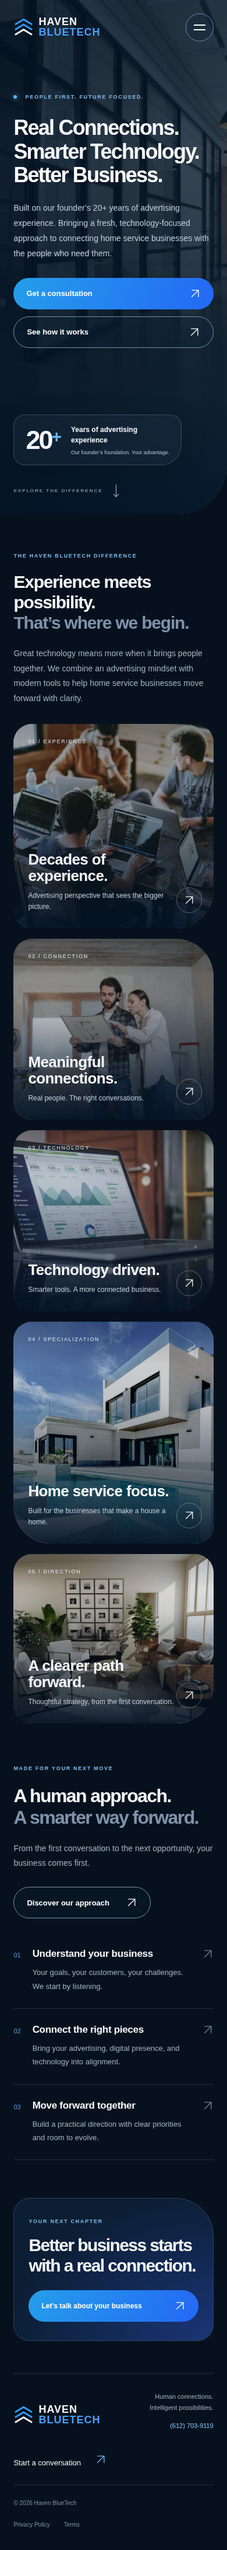
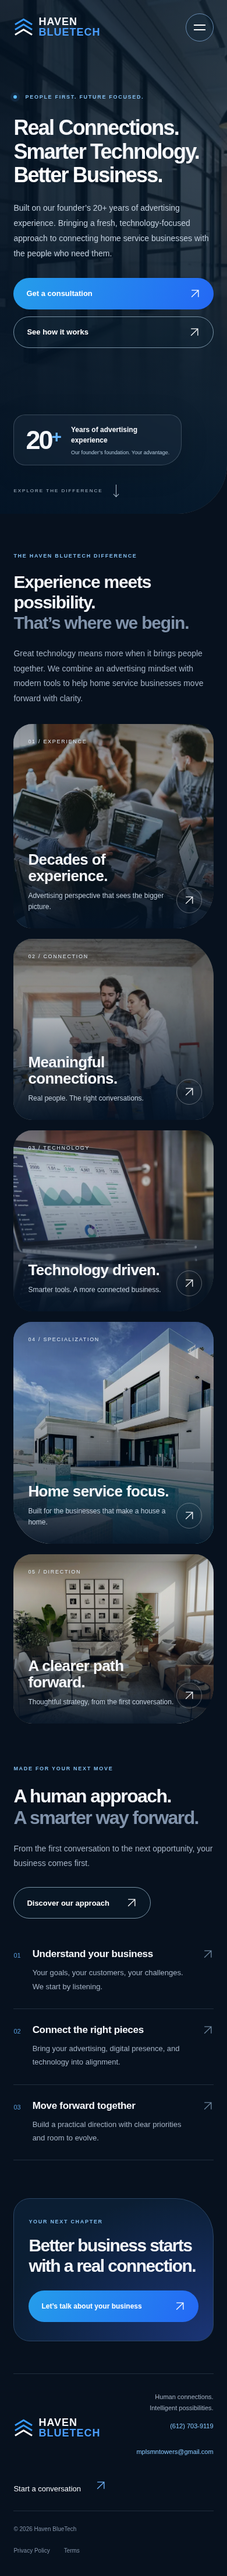
feat: add business email and prefilled inquiry drafts

Changed region(s): [[0.0615, 0.2179, 0.9538, 0.9963], [0.0615, 0.0311, 0.9231, 0.1868], [0.3077, 0.1557, 0.6154, 0.1868]]

diff --git a/src/render.ts b/src/render.ts
@@ -4,7 +4,7 @@ const nav = [['About','/about'],['Services','/services'],['How it works','/how-i
 const button = (label:string, href:string, secondary=false) => `<a class="button ${secondary?'secondary':''}" href="${href}">${label}${arrow}</a>`;
 const logo = `<a class="brand" href="/" aria-label="Haven BlueTech home"><svg viewBox="0 0 48 48" aria-hidden="true"><path d="m4 17 20-12 20 12M4 29l20-12 20 12"/><path class="white" d="m4 41 20-12 20 12"/></svg><span>HAVEN<span class="brand-blue">BLUETECH</span></span></a>`;
 const header = `<a class="skip" href="#main">Skip to content</a><header class="header"><div class="nav-wrap">${logo}<nav class="desktop-nav" aria-label="Main navigation">${nav.map(([label,href])=>`<a ${route===href?'aria-current="page"':''} href="${href}">${label}</a>`).join('')}</nav><a class="nav-cta" href="/contact">Let’s connect ${arrow}</a><button class="menu-toggle" aria-label="Open navigation" aria-expanded="false" aria-controls="mobile-nav"><span></span><span></span></button></div><nav id="mobile-nav" class="mobile-nav" aria-label="Mobile navigation" hidden>${[...nav,['Let’s connect','/contact']].map(([label,href])=>`<a href="${href}">${label}${arrow}</a>`).join('')}</nav></header>`;
-const footer = `<footer class="footer"><div class="footer-top">${logo}<p>Human connections.<br>Intelligent possibilities.<br><a class="footer-phone" href="tel:+16127039119">(612) 703-9119</a></p><a href="/contact">Start a conversation ${arrow}</a></div><div class="footer-bottom"><span>© ${new Date().getFullYear()} Haven BlueTech</span><div><a href="/privacy">Privacy Policy</a><a href="/terms">Terms</a></div><span>Built around people. Powered by technology.</span></div></footer>`;
+const footer = `<footer class="footer"><div class="footer-top">${logo}<p>Human connections.<br>Intelligent possibilities.<br><a class="footer-phone" href="tel:+16127039119">(612) 703-9119</a><br><a class="footer-email" href="mailto:mplsmntowers@gmail.com">mplsmntowers@gmail.com</a></p><a href="/contact">Start a conversation ${arrow}</a></div><div class="footer-bottom"><span>© ${new Date().getFullYear()} Haven BlueTech</span><div><a href="/privacy">Privacy Policy</a><a href="/terms">Terms</a></div><span>Built around people. Powered by technology.</span></div></footer>`;
 const features = [
  {title:'Decades of experience.',desc:'Advertising perspective that sees the bigger picture.',image:'experience',tag:'01 / EXPERIENCE',cls:'experience',alt:'Marketing team collaborating around a table in a bright studio'},
  {title:'Meaningful connections.',desc:'Real people. The right conversations.',image:'connections',tag:'02 / CONNECTION',cls:'connections',alt:'Home renovation consultation with two people reviewing a floor plan'},
@@ -21,8 +21,8 @@ const pageHero = (label:string,title:string,desc:string) => `<section class="pag
 const about = `<main id="main">${pageHero('ABOUT HAVEN BLUETECH','Built on experience.<br><em>Looking ahead.</em>','We believe better business begins with understanding people. Technology helps us take that understanding further.')}<section class="split section"> <div class="editorial-image reveal">${image('experience','Advertising professionals sharing ideas in a studio')}</div><div class="prose reveal"><span class="eyebrow">EXPERIENCE WITH PERSPECTIVE</span><h2>A familiar challenge.<br>A fresh approach.</h2><p>Haven BlueTech brings together our founder’s 20+ years of advertising experience and a technology-focused approach to business growth.</p><p>That experience belongs to our founder. It’s the foundation of our thinking—not a claim that Haven BlueTech has been operating for two decades.</p><p>Our focus is home services: the businesses that help people care for, improve, and feel at home in their spaces. We believe their marketing should be as thoughtful as the work they do.</p></div></section><section class="values section"><span class="eyebrow">WHAT GUIDES US</span><h2>People at the center.<br>Purpose in every decision.</h2><div class="value-grid">${[['01','Listen first','Understand the business before recommending a direction.'],['02','Make it useful','Choose technology for the real problems it can help solve.'],['03','Keep it clear','Bring straightforward thinking to a complicated digital landscape.']].map(([n,t,d])=>`<article><span>${n}</span><h3>${t}</h3><p>${d}</p></article>`).join('')}</div></section>${cta}</main>`;
 const services = `<main id="main">${pageHero('OUR SERVICES','Your business.<br><em>More connected.</em>','Advertising thinking and modern digital tools, shaped around the needs of home service businesses.')}<section class="service-list section">${[['01','Advertising & marketing strategy','A clear direction before the next investment.','Clarify your audience, positioning, and marketing priorities. Turn experience into a practical plan for reaching the people your business is built to serve.','experience'],['02','Digital presence & experiences','Make every first impression count.','Bring clarity to how your business shows up online, with thoughtful website experiences and messaging that help potential customers understand their next step.','technology'],['03','Connection-focused marketing','Make the right conversations easier.','Consider the whole journey from discovering your business to making an inquiry. Create a more coherent path between your marketing and your customer conversations.','connections'],['04','Practical technology direction','Better tools, with a clear purpose.','Explore digital tools and ways of working that fit your business. Focus on useful connections, simpler processes, and an approach your team can understand.','strategy']].map(([n,t,s,d,img])=>`<article class="service-row reveal"><div class="service-photo">${image(img,t)}</div><div><span class="eyebrow">${n} / HOW WE HELP</span><h2>${t}</h2><h3>${s}</h3><p>${d}</p><a class="text-link" href="/contact">Talk about your goals ${arrow}</a></div></article>`).join('')}</section><div class="service-note section"><p>Every engagement starts with a conversation. Scope, deliverables, timing, and fees are agreed separately before work begins.</p></div>${cta}</main>`;
 const how = `<main id="main">${pageHero('HOW IT WORKS','Start with a conversation.<br><em>Build with intention.</em>','No one-size-fits-all formula. Just a thoughtful process that starts with where you are and where you want to go.')}<section class="process section">${[['01','Listen & understand','We talk about your business, your customers, and what you want to improve. Bring your questions, current challenges, and ambitions.','A shared understanding of your priorities.'],['02','Find the opportunity','We look at how your advertising, online presence, and tools fit together, then identify where a clearer connection could make a difference.','A focused direction grounded in your business.'],['03','Define the plan','Together, we agree on the work, the responsibilities, and the next steps. You’ll know the scope and fees before committing to an engagement.','A clear proposal you can review.'],['04','Build & evolve','We move through the agreed work with open communication. As your needs change, we revisit what makes sense for the next stage.','Practical progress and a considered next step.']].map(([n,t,d,o])=>`<article class="process-row reveal"><span>${n}</span><div><h2>${t}</h2><p>${d}</p><small>${o}</small></div></article>`).join('')}</section>${cta}</main>`;
-const contact = `<main id="main">${pageHero('LET’S CONNECT','Good things start<br><em>with a conversation.</em>','Tell us a little about your business and what’s next. Let’s find where experience and technology can help.')}<section class="contact-layout section"><div class="contact-aside"><div class="editorial-image">${image('connections','Two people discussing a home renovation floor plan')}</div><h2>Your next move starts here.</h2><p>Home service business? A new direction? A challenge worth solving? Start with the details that matter to you.</p><div class="business-phone"><span class="eyebrow">CALL HAVEN BLUETECH</span><a href="tel:+16127039119">(612) 703-9119</a></div><div class="contact-note"><span class="eyebrow">CONTACT PREVIEW</span><p>Call us to start a conversation. Online submissions are not enabled yet; you can prepare and download your inquiry below. Nothing is sent or stored by this website.</p></div></div><form id="contact-form"><noscript><p class="contact-note">Enable JavaScript to prepare a local inquiry download. Online submissions are not enabled.</p></noscript><fieldset disabled><label for="name">Your name <span>(required)</span></label><input id="name" name="name" autocomplete="name" required maxlength="120"/><label for="email">Email address <span>(required)</span></label><input id="email" name="email" type="email" autocomplete="email" required maxlength="254"/><label for="company">Business name</label><input id="company" name="company" autocomplete="organization" maxlength="180"/><label for="interest">What’s on your mind?</label><select id="interest" name="interest"><option>Advertising & marketing strategy</option><option>Digital presence & experiences</option><option>Connection-focused marketing</option><option>Practical technology direction</option><option>Let’s explore the possibilities</option></select><label for="message">Tell us about your goals <span>(required)</span></label><textarea id="message" name="message" required minlength="10" maxlength="5000" rows="5"></textarea><p class="form-privacy">Your details stay in this browser until you download your inquiry. Read our <a href="/privacy">Privacy Policy</a>.</p><button class="button" type="submit">Prepare my inquiry ${arrow}</button><p id="form-status" role="status" tabindex="-1"></p></fieldset></form></section></main>`;
-const privacy = `<main id="main" class="legal">${pageHero('LEGAL','Privacy Policy','Effective November 10, 2026. This policy describes the current Haven BlueTech frontend website.')}<article class="legal-body section"><h2>Information on this website</h2><p>This website does not provide accounts, payments, advertising trackers, or a server-side contact form. Contact fields are processed locally in your browser to create a downloadable inquiry. The website does not transmit those form fields to Haven BlueTech.</p><h2>Hosting and technical information</h2><p>When this website is hosted, its hosting provider may process technical request information, such as IP addresses, browser details, requested pages, and timestamps, to deliver and secure the service. Applicable retention depends on the hosting configuration and provider policies.</p><h2>Cookies and local storage</h2><p>This frontend does not intentionally set cookies or use local storage. It does not include analytics or marketing pixels. Photographs are served from this website’s own assets.</p><h2>Your inquiry</h2><p>If you choose to download an inquiry, the resulting file contains the details you entered. Keep or delete that file as you prefer. Downloading it does not send an inquiry. If you later share it through email or another service, that service’s privacy practices apply.</p><h2>External links</h2><p>Links to external websites are subject to those websites’ policies. Haven BlueTech does not control their practices.</p><h2>Changes and questions</h2><p>This policy should be updated before any new data collection, analytics, or submission service is enabled. For privacy questions, use the contact method published on our <a href="/contact">Contact page</a> when available.</p></article></main>`;
+const contact = `<main id="main">${pageHero('LET’S CONNECT','Good things start<br><em>with a conversation.</em>','Tell us a little about your business and what’s next. Let’s find where experience and technology can help.')}<section class="contact-layout section"><div class="contact-aside"><div class="editorial-image">${image('connections','Two people discussing a home renovation floor plan')}</div><h2>Your next move starts here.</h2><p>Home service business? A new direction? A challenge worth solving? Start with the details that matter to you.</p><div class="business-phone"><span class="eyebrow">CALL HAVEN BLUETECH</span><a href="tel:+16127039119">(612) 703-9119</a></div><div class="business-email"><span class="eyebrow">EMAIL HAVEN BLUETECH</span><a href="mailto:mplsmntowers@gmail.com">mplsmntowers@gmail.com</a></div><div class="contact-note"><span class="eyebrow">LET’S START A CONVERSATION</span><p>Call or email us directly, or prepare your inquiry below. You can download a copy and open an email draft in your email app to review and send.</p></div></div><form id="contact-form"><noscript><p class="contact-note">Enable JavaScript to prepare a local inquiry download. Online submissions are not enabled.</p></noscript><fieldset disabled><label for="name">Your name <span>(required)</span></label><input id="name" name="name" autocomplete="name" required maxlength="120"/><label for="email">Email address <span>(required)</span></label><input id="email" name="email" type="email" autocomplete="email" required maxlength="254"/><label for="company">Business name</label><input id="company" name="company" autocomplete="organization" maxlength="180"/><label for="interest">What’s on your mind?</label><select id="interest" name="interest"><option>Advertising & marketing strategy</option><option>Digital presence & experiences</option><option>Connection-focused marketing</option><option>Practical technology direction</option><option>Let’s explore the possibilities</option></select><label for="message">Tell us about your goals <span>(required)</span></label><textarea id="message" name="message" required minlength="10" maxlength="5000" rows="5"></textarea><p class="form-privacy">Your details are used locally to prepare a download and an email draft. You review and send the email in your own email app. Read our <a href="/privacy">Privacy Policy</a>.</p><button class="button" type="submit">Prepare my inquiry ${arrow}</button><a id="email-draft" class="text-link" href="mailto:mplsmntowers@gmail.com">Email us directly</a><p id="form-status" role="status" tabindex="-1"></p></fieldset></form></section></main>`;
+const privacy = `<main id="main" class="legal">${pageHero('LEGAL','Privacy Policy','Effective November 10, 2026. This policy describes the current Haven BlueTech frontend website.')}<article class="legal-body section"><h2>Information on this website</h2><p>This website does not provide accounts, payments, advertising trackers, or a server-side contact form. Contact fields are processed locally in your browser to create a downloadable inquiry and a prefilled email link. The website does not send emails automatically. You choose whether to open a draft in your email app and send it to Haven BlueTech.</p><h2>Hosting and technical information</h2><p>When this website is hosted, its hosting provider may process technical request information, such as IP addresses, browser details, requested pages, and timestamps, to deliver and secure the service. Applicable retention depends on the hosting configuration and provider policies.</p><h2>Cookies and local storage</h2><p>This frontend does not intentionally set cookies or use local storage. It does not include analytics or marketing pixels. Photographs are served from this website’s own assets.</p><h2>Your inquiry</h2><p>If you choose to download an inquiry, the resulting file contains the details you entered. Keep or delete that file as you prefer. Downloading it does not send an inquiry. Opening a prefilled email link passes your inquiry to your chosen email app. If you send an email to mplsmntowers@gmail.com, Haven BlueTech receives the details you include to respond to your inquiry. Your email provider’s privacy practices also apply.</p><h2>External links</h2><p>Links to external websites are subject to those websites’ policies. Haven BlueTech does not control their practices.</p><h2>Changes and questions</h2><p>This policy should be updated before any new data collection, analytics, or submission service is enabled. For privacy questions, email <a href="mailto:mplsmntowers@gmail.com">mplsmntowers@gmail.com</a> or call <a href="tel:+16127039119">(612) 703-9119</a>.</p></article></main>`;
 const terms = `<main id="main" class="legal">${pageHero('LEGAL','Terms of Use','Effective November 10, 2026. Please read these terms before using this website.')}<article class="legal-body section"><h2>Using this website</h2><p>This website provides general information about Haven BlueTech and its approach to advertising and technology. You may use it for lawful purposes. Do not attempt to damage the website, interfere with access, or misuse its content.</p><h2>Information and results</h2><p>Website content is informational and does not constitute a binding offer or professional advice. Descriptions of services are illustrative. Business outcomes depend on many factors, and no specific level of leads, sales, revenue, or performance is guaranteed.</p><h2>Services and agreements</h2><p>Any engagement requires a separate written agreement defining scope, fees, timing, responsibilities, and other applicable terms. Preparing or downloading an inquiry does not create a client relationship or submit a request.</p><h2>Intellectual property</h2><p>Haven BlueTech branding and original website content are protected by applicable intellectual property laws. Photographs are used under their respective licenses. Third-party rights remain with their owners.</p><h2>Availability and external websites</h2><p>We aim to keep information accurate but do not guarantee uninterrupted access or complete accuracy. External websites operate independently and are governed by their own terms.</p><h2>Liability</h2><p>To the extent permitted by applicable law, Haven BlueTech is not responsible for losses arising from reliance on general website information or interruptions to website access. Nothing in these terms excludes rights or liabilities that cannot lawfully be excluded.</p><h2>Updates and contact</h2><p>These terms may be updated as the website evolves. For questions, see the <a href="/contact">Contact page</a>. Any service-specific terms will be provided separately.</p></article></main>`;
 const pages:Record<string,string> = {'/':home,'/index':home,'/about':about,'/services':services,'/how-it-works':how,'/contact':contact,'/privacy':privacy,'/terms':terms};
 return header + (pages[route] ?? `<main id="main">${pageHero('404','A different direction.','This page could not be found.')}<div class="section">${button('Back to home','/')}</div></main>`) + footer;

diff --git a/src/main.ts b/src/main.ts
@@ -13,4 +13,4 @@ const heroImage = document.querySelector<HTMLElement>('.hero > img');
 if(heroImage&&matchMedia('(min-width: 901px) and (pointer: fine)').matches&&!reduced.matches&&!(navigator as Navigator&{connection?:{saveData:boolean}}).connection?.saveData){let ticking=false;window.addEventListener('scroll',()=>{if(!ticking){requestAnimationFrame(()=>{heroImage.style.transform=`translateY(${Math.min(window.scrollY*0.12,90)}px) scale(1.08)`;ticking=false;});ticking=true;}},{passive:true});}
 const inquiryFields=document.querySelector<HTMLFieldSetElement>('#contact-form fieldset');
 if(inquiryFields) inquiryFields.disabled=false;
-document.querySelector<HTMLFormElement>('#contact-form')?.addEventListener('submit',event=>{event.preventDefault();const data=new FormData(event.currentTarget as HTMLFormElement);const text=`Haven BlueTech — consultation inquiry\n\n${Array.from(data.entries()).map(([k,v])=>`${k}: ${v}`).join('\n\n')}\n\nThis inquiry has not been sent.`;const blob=new Blob([text],{type:'text/plain;charset=utf-8'});const url=URL.createObjectURL(blob);const a=document.createElement('a');a.href=url;a.download='haven-bluetech-inquiry.txt';a.click();setTimeout(()=>URL.revokeObjectURL(url),1000);const status=document.querySelector<HTMLElement>('#form-status')!;status.textContent='Your inquiry file is ready. Nothing has been sent. Call (612) 703-9119 to discuss your inquiry.';status.focus();});
+document.querySelector<HTMLFormElement>('#contact-form')?.addEventListener('submit',event=>{event.preventDefault();const data=new FormData(event.currentTarget as HTMLFormElement);const text=`Haven BlueTech — consultation inquiry\n\n${Array.from(data.entries()).map(([k,v])=>`${k}: ${v}`).join('\n\n')}\n\nThis inquiry has not been sent.`;const blob=new Blob([text],{type:'text/plain;charset=utf-8'});const url=URL.createObjectURL(blob);const a=document.createElement('a');a.href=url;a.download='haven-bluetech-inquiry.txt';a.click();setTimeout(()=>URL.revokeObjectURL(url),1000);const draft=document.querySelector<HTMLAnchorElement>('#email-draft')!;draft.href=`mailto:mplsmntowers@gmail.com?subject=${encodeURIComponent('Haven BlueTech consultation inquiry')}&body=${encodeURIComponent(text.replace('This inquiry has not been sent.',''))}`;draft.textContent='Open your email draft';const status=document.querySelector<HTMLElement>('#form-status')!;status.textContent='Your inquiry file is ready. Select “Open your email draft” to review and send it to mplsmntowers@gmail.com in your email app. Nothing has been sent automatically.';status.focus();});

diff --git a/src/style.css b/src/style.css
@@ -5,3 +5,5 @@
 #contact-form fieldset{border:0;margin:0;padding:0;width:100%;display:flex;flex-direction:column;align-items:start;min-width:0}
 
 .business-phone{margin-top:28px}.business-phone>a{display:inline-flex;align-items:center;min-height:48px;font-size:28px;font-weight:700;letter-spacing:-.6px;color:#8acaff}.business-phone>a:hover,.footer-phone:hover{text-decoration:underline}.footer-phone{display:inline-flex;align-items:center;min-height:44px;color:#8acaff}
+
+.business-email{margin-top:18px}.business-email>a{display:inline-flex;align-items:center;min-height:48px;font-size:22px;font-weight:700;color:#8acaff;overflow-wrap:anywhere;max-width:100%}.footer-email{display:inline-flex;align-items:center;min-height:44px;color:#8acaff;overflow-wrap:anywhere;max-width:100%}.business-email>a:hover,.footer-email:hover{text-decoration:underline}@media(max-width:600px){.business-email>a{font-size:20px}.footer-top>p{min-width:0}}

diff --git a/README.md b/README.md
@@ -30,7 +30,7 @@ The script checks all pages at 390px and 1440px, loads lazy images through scrol
 
 ## Contact behavior and launch details
 
-The contact form intentionally prepares a local text-file download. It does **not** send requests or claim that a message was delivered. Business phone: (612) 703-9119, linked on Contact and in the global footer. No public company email address was supplied. Replace this preview behavior with an approved email destination or form service before launching consultation intake; update Privacy Policy accordingly. Do not put private service keys in client code.
+The contact form intentionally prepares a local text-file download. It does **not** send requests or claim that a message was delivered. Business phone: (612) 703-9119, linked on Contact and in the global footer. Public email: mplsmntowers@gmail.com. A prefilled email link lets visitors review and send an inquiry in their own email app. The website does not send automatically. Do not put private service keys in client code.
 
 Copy ties “20+ years” specifically to the founder’s advertising experience, without claiming a company operating history or invented performance metrics. Services describe a proposed offering; confirm scope and public company/legal contact details before production. The legal pages accurately describe this frontend's current behavior and should be reviewed for the final business and hosting configuration.
 
